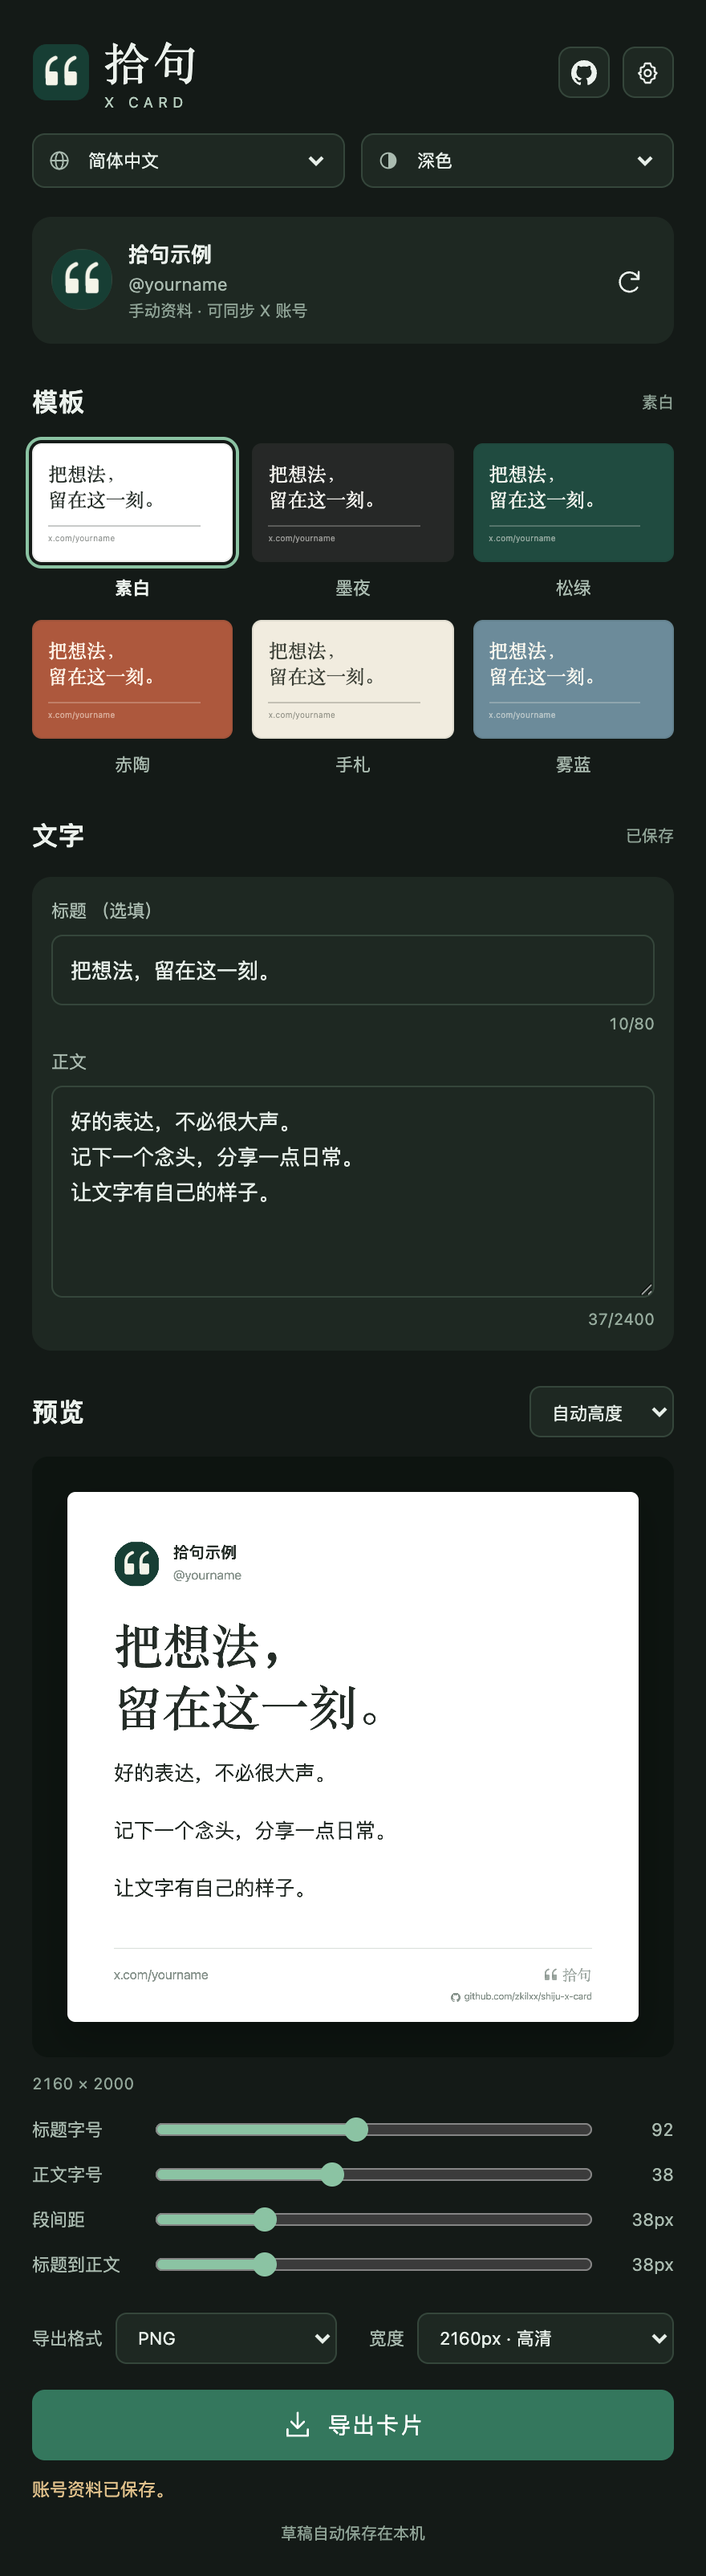
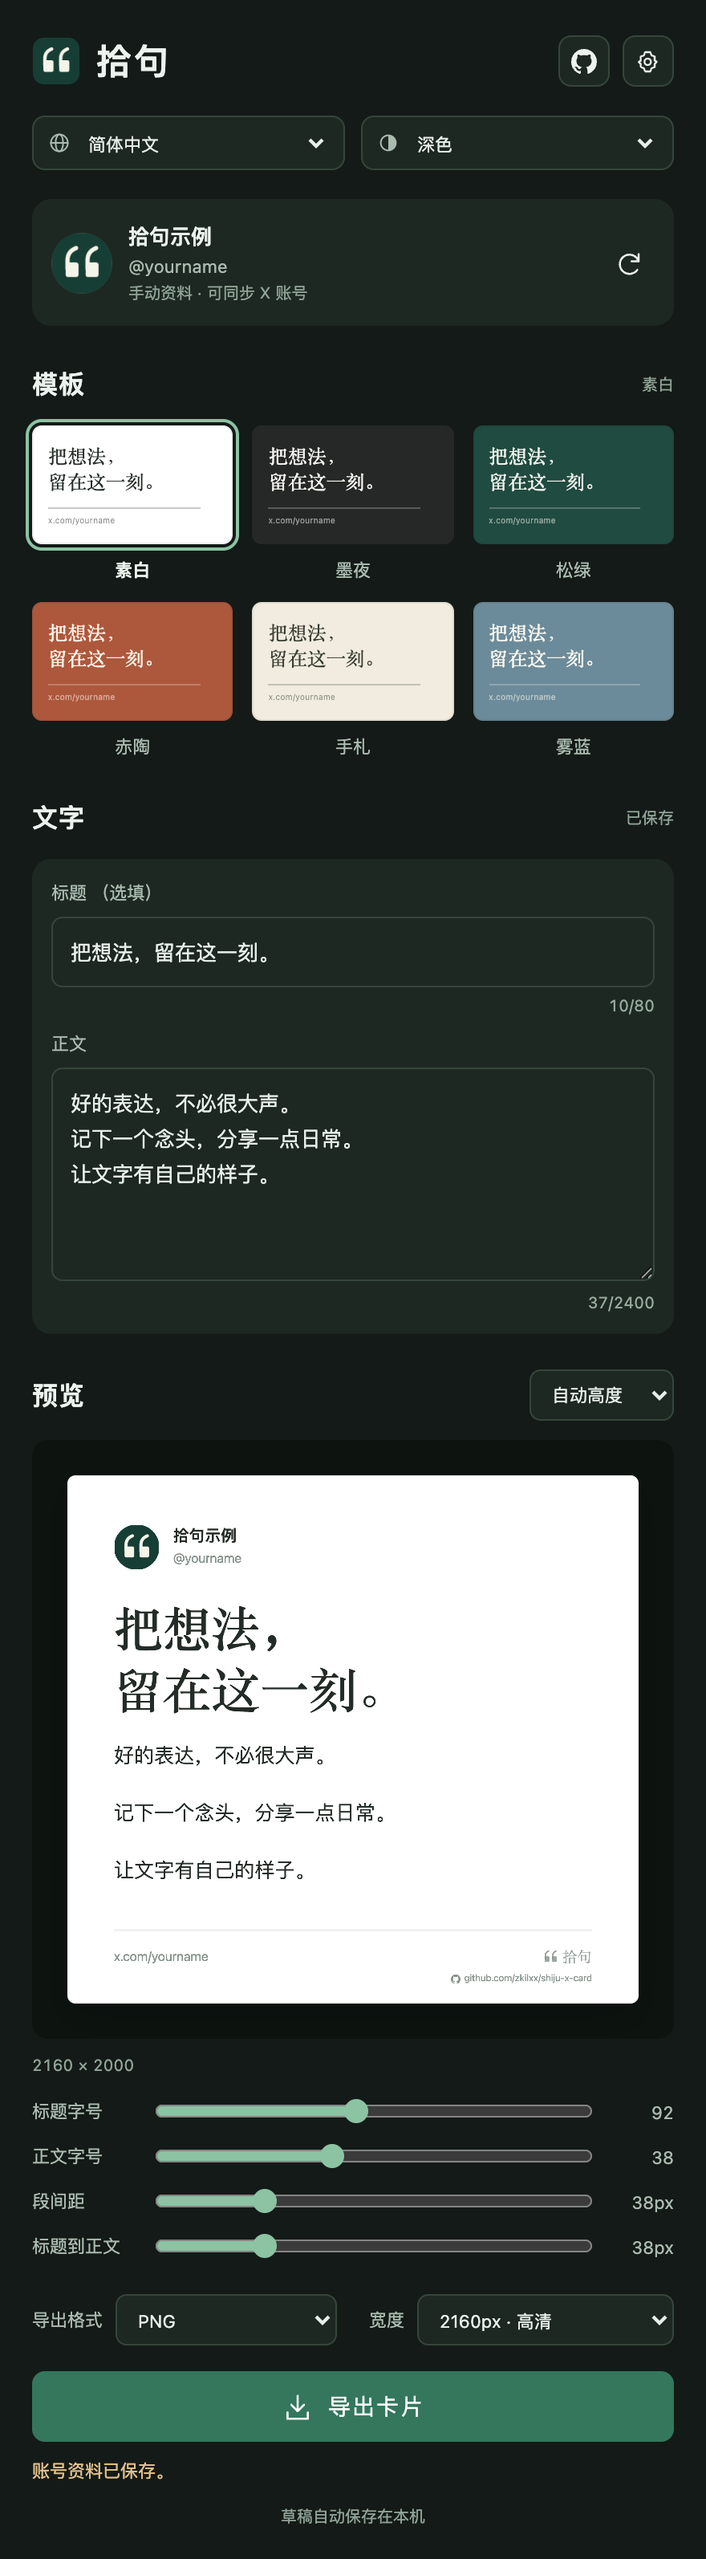
Refine header to a single-line Chinese wordmark

diff --git a/extension/sidepanel.html b/extension/sidepanel.html
@@ -6,7 +6,7 @@
 </head>
 <body>
   <main class="app">
-    <header class="brand"><div class="brand-identity"><img class="brand-logo" src="icons/icon128.png" alt="" width="40" height="40"><div><h1>拾句</h1><span>X CARD</span></div></div><div class="brand-actions"><a id="repository" class="icon-button repo-button" href="https://github.com/zkilxx/shiju-x-card" target="_blank" rel="noopener noreferrer" aria-label="打开 GitHub 仓库" data-i18n-aria="打开 GitHub 仓库" title="打开 GitHub 仓库" data-i18n-title="打开 GitHub 仓库"><svg viewBox="0 0 16 16" aria-hidden="true"></svg></a><button id="settings" class="icon-button" aria-label="编辑账号资料" data-i18n-aria="编辑账号资料" title="编辑账号资料" data-i18n-title="编辑账号资料"><svg viewBox="0 0 24 24"><path d="m9 3-1 3-3 1v4l-2 1 2 2v3l3 1 1 3h5l1-3 3-1v-3l2-2-2-1V7l-3-1-1-3Z"/><circle cx="11.5" cy="12" r="3"/></svg></button></div></header>
+    <header class="brand"><div class="brand-identity"><img class="brand-logo" src="icons/icon128.png" alt="" width="30" height="30"><h1>拾句</h1></div><div class="brand-actions"><a id="repository" class="icon-button repo-button" href="https://github.com/zkilxx/shiju-x-card" target="_blank" rel="noopener noreferrer" aria-label="打开 GitHub 仓库" data-i18n-aria="打开 GitHub 仓库" title="打开 GitHub 仓库" data-i18n-title="打开 GitHub 仓库"><svg viewBox="0 0 16 16" aria-hidden="true"></svg></a><button id="settings" class="icon-button" aria-label="编辑账号资料" data-i18n-aria="编辑账号资料" title="编辑账号资料" data-i18n-title="编辑账号资料"><svg viewBox="0 0 24 24"><path d="m9 3-1 3-3 1v4l-2 1 2 2v3l3 1 1 3h5l1-3 3-1v-3l2-2-2-1V7l-3-1-1-3Z"/><circle cx="11.5" cy="12" r="3"/></svg></button></div></header>
     <div class="toolbar"><label><svg viewBox="0 0 24 24" aria-hidden="true"><circle cx="12" cy="12" r="9"/><ellipse cx="12" cy="12" rx="4" ry="9"/><path d="M3 12h18"/></svg><span class="sr-only" data-i18n="语言">语言</span><select id="languageMode" aria-label="语言" data-i18n-aria="语言"><option value="zh-CN">简体中文</option><option value="en">English</option></select></label><label><svg viewBox="0 0 24 24" aria-hidden="true"><circle cx="12" cy="12" r="8"/><path d="M12 4a8 8 0 0 1 0 16Z" fill="currentColor" stroke="none"/></svg><span class="sr-only" data-i18n="界面主题">界面主题</span><select id="themeMode" aria-label="界面主题" data-i18n-aria="界面主题" title="界面主题" data-i18n-title="界面主题"><option value="system" data-i18n="跟随系统">跟随系统</option><option value="light" data-i18n="浅色">浅色</option><option value="dark" data-i18n="深色">深色</option></select></label></div>
     <section class="account" aria-label="当前账号" data-i18n-aria="当前账号"><div id="avatar" class="avatar"><svg class="x-mark" viewBox="0 0 24 24" aria-hidden="true"><path d="M14.234 10.162 22.977 0h-2.072l-7.591 8.824L7.251 0H.258l9.168 13.343L.258 24H2.33l8.016-9.318L16.749 24h6.993zm-2.837 3.299-.929-1.329L3.076 1.56h3.182l5.965 8.532.929 1.329 7.754 11.09h-3.182z"/></svg></div><div class="account-info"><strong id="accountName" data-i18n="示例账号">示例账号</strong><a id="accountHandle" target="_blank" rel="noopener noreferrer">@yourname</a><span id="accountStatus" data-i18n="未关联 · 打开 X 后同步">未关联 · 打开 X 后同步</span></div><button id="sync" class="icon-button" aria-label="同步当前 X 账号" data-i18n-aria="同步当前 X 账号" title="同步当前 X 账号" data-i18n-title="同步当前 X 账号"><svg viewBox="0 0 24 24"><path d="M20 5v6h-6M20 11a8 8 0 1 0-1 7"/></svg></button></section>
     <section class="section"><div class="section-heading"><h2 data-i18n="模板">模板</h2><span id="templateName" data-i18n="素白">素白</span></div><div id="templates" class="templates" role="group" aria-label="卡片模板" data-i18n-aria="卡片模板"></div></section>

diff --git a/extension/styles.css b/extension/styles.css
@@ -97,16 +97,12 @@ button {
   margin-bottom:20px
 }
 .brand h1 {
-  font-family:"Songti SC","STSong",serif;
-  font-size:32px;
-  font-weight:500;
-  letter-spacing:4px;
-  margin:0 0 2px
-}
-.brand span {
-  font-size:10px;
-  letter-spacing:4px;
-  color:var(--brand-muted)
+  font-family:"PingFang SC","Microsoft YaHei",sans-serif;
+  font-size:22px;
+  font-weight:600;
+  line-height:30px;
+  letter-spacing:1.5px;
+  margin:0
 }
 .icon-button {
   width:32px;
@@ -522,11 +518,9 @@ dialog .notice {
 
 }
 
-.brand-identity {display:flex;align-items:center;gap:9px;min-width:0;}
-.brand {margin-bottom:14px;}
-.brand h1 {font-size:28px;line-height:1.2;letter-spacing:3px;}
-.brand-identity > div > span {font-size:9px;letter-spacing:3px;}
-.brand-logo {display:block;flex-shrink:0;border-radius:10px;width:36px;height:36px;}
+.brand-identity {display:flex;align-items:center;gap:10px;min-width:0;}
+.brand {min-height:32px;margin-bottom:18px;}
+.brand-logo {display:block;flex-shrink:0;border-radius:8px;width:30px;height:30px;}
 .repo-button {color:var(--text);text-decoration:none;}
 .repo-button svg {fill:currentColor;stroke:none;width:17px;height:17px;}
 .toolbar {display:grid;grid-template-columns:1fr 1fr;gap:10px;margin:0 0 18px;}

diff --git a/README.en.md b/README.en.md
@@ -5,7 +5,7 @@
   <h1>Shiju · X Text Cards</h1>
   <p>Turn your thoughts and favorite X posts into beautiful cards, right in Chrome's side panel.</p>
   <p>
-    <img src="https://img.shields.io/badge/version-1.4.0-173e34" alt="Version 1.4.0">
+    <img src="https://img.shields.io/badge/version-1.4.1-173e34" alt="Version 1.4.1">
     <img src="https://img.shields.io/badge/Chrome-116%2B-4285F4?logo=googlechrome&logoColor=white" alt="Chrome 116+">
     <img src="https://img.shields.io/badge/Manifest-V3-6d7772" alt="Manifest V3">
     <img src="https://img.shields.io/badge/PNG-3240px-173e34" alt="PNG exports up to 3240px">
@@ -44,7 +44,7 @@ Select **English** in the language menu at the top. Language changes affect cont
 
 Requires desktop Chrome 116 or later. The extension is currently installed as an unpacked extension; it is not listed in the Chrome Web Store.
 
-1. Download `shiju-x-card-1.4.0.zip` from [Releases](https://github.com/zkilxx/shiju-x-card/releases/latest) and extract it.
+1. Download `shiju-x-card-1.4.1.zip` from [Releases](https://github.com/zkilxx/shiju-x-card/releases/latest) and extract it.
 2. Open `chrome://extensions` and enable **Developer mode** in the top-right corner.
 3. Click **Load unpacked** and select the extracted **extension** folder, which contains `manifest.json`.
 4. Pin Shiju from Chrome's extensions menu, then click its icon to open the side panel.

diff --git a/README.md b/README.md
@@ -5,7 +5,7 @@
   <h1>拾句 · X 文字卡片</h1>
   <p>在 Chrome 侧边栏，把想法和喜欢的推文做成一张好看的卡片。</p>
   <p>
-    <img src="https://img.shields.io/badge/version-1.4.0-173e34" alt="Version 1.4.0">
+    <img src="https://img.shields.io/badge/version-1.4.1-173e34" alt="Version 1.4.1">
     <img src="https://img.shields.io/badge/Chrome-116%2B-4285F4?logo=googlechrome&logoColor=white" alt="Chrome 116+">
     <img src="https://img.shields.io/badge/Manifest-V3-6d7772" alt="Manifest V3">
     <img src="https://img.shields.io/badge/PNG-3240px-173e34" alt="PNG export up to 3240px">
@@ -49,7 +49,7 @@
 
 目前通过 Chrome 的「加载已解压的扩展程序」安装，尚未上架 Chrome 应用商店。
 
-1. 前往 [Releases](https://github.com/zkilxx/shiju-x-card/releases/latest)，下载 `shiju-x-card-1.4.0.zip` 并解压。
+1. 前往 [Releases](https://github.com/zkilxx/shiju-x-card/releases/latest)，下载 `shiju-x-card-1.4.1.zip` 并解压。
 2. 在 Chrome 地址栏输入 `chrome://extensions`，打开右上角的「开发者模式」。
 3. 点击「加载已解压的扩展程序」，选择解压后的 **extension** 文件夹，里面应有 `manifest.json`。
 4. 在 Chrome 工具栏的扩展菜单中固定「拾句」，点击图标打开侧边栏。
